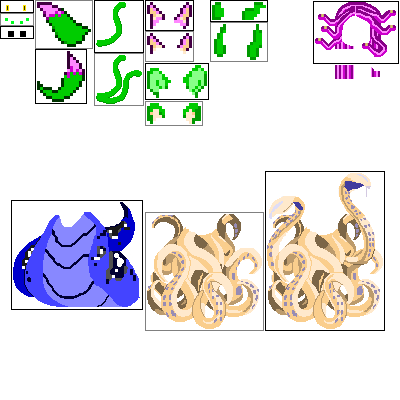
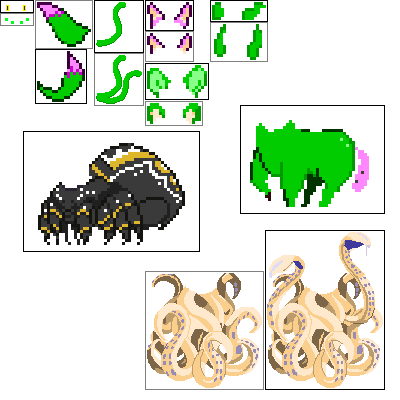
spred: scales & chitin by Liadri

diff --git a/cocspred/spred.js b/cocspred/spred.js
@@ -5,8 +5,25 @@
 ///<reference path="typings/jquery.d.ts"/>
 var spred;
 (function (spred) {
-    const basedir = window['spred_basedir'] || '../../';
-    const canAjax = location.protocol != 'file:';
+    spred.basedir = window['spred_basedir'] || '../../';
+    spred.canAjax = location.protocol != 'file:';
+    spred.g_composites = [];
+    spred.g_selsprite = '';
+    spred.g_sellayer = null;
+    spred.g_layergen = [
+        ['face-human', 'face-human', 'face-fur', 'face-orca', 'face-bee', 'face-chitin', 'face-scales'],
+        ['eyes-human', 'eyes-cat', 'eyes-spider', 'eyes-sandtrap', 'eyes-manticore', 'eyes-orca'],
+        [['hair0f', 'hair0b'], ['hair0f', 'hair0b'], [], ['hair-gorgon', 'hair-gorgon_bg']],
+        ['ears-human', 'ears-fur', ['ears-fox_fg', 'ears-fox_bg'], 'ears-wolf', 'ears-cat', 'ears-orca'],
+        [[], [], [], 'horns2S', 'horns2L', ['horns-orchid_bg', 'horns-orchid_fg']],
+        ['breasts0', 'breastsD', 'breastsDfur', 'breastsDbee', 'breastsDchitin', 'breastsDscales'],
+        ['arms-human', 'arms-fur', 'arms-manticore', ['arms-orca', 'fins-orca'], 'arms-alraune', 'arms-scales', 'arms-bee', 'arms-bee2', 'arms-chitin', 'arms-chitin2'],
+        ['legs-human', 'legs-furpaws', 'legs-naga', 'legs-kraken', 'legs-scylla', 'legs-manticore_sit', 'legs-orca', 'legs-drider', 'legs-centaur', 'legs-chitin', 'legs-bee', 'legs-bee', 'legs-scales', 'legs-alraune', 'legs-liliraune'],
+        ['torso-human', 'torso-human', 'torso-fur', 'torso-orca', 'torso-bee', 'torso-chitin', 'torso-scales'],
+        [[], 'tail-cat', 'tail-cat2', 'tail-fox1', ['tail-fox1', 'tail-fox2'], 'tail-manticore', 'tail-orca', 'tail-bee_abdomen', 'tail-reptile'],
+        [[], [], [], ['wings-mantibig_bg', 'wings-mantibig_fg'], ['wings-bee'], ['wings-scales_left', 'wings-scales_right']],
+        [[], [], [], ['antennae-bee']]
+    ];
     function RGBA(i) {
         let rgb = i.toRgb();
         return (((rgb.a * 0xff) & 0xff) << 24
@@ -64,7 +81,7 @@ var spred;
     })(FileAsker || (FileAsker = {}));
     function loadFile(url, format) {
         return new Promise((resolve, reject) => {
-            if (!canAjax) {
+            if (!spred.canAjax) {
                 FileAsker.askFile(url, file => {
                     if (format == 'img') {
                         url2img(URL.createObjectURL(file)).then(resolve);
@@ -182,7 +199,8 @@ var spred;
             let ctx2d = this.canvas.getContext('2d');
             ctx2d.imageSmoothingEnabled = false;
             let z = this.zoom;
-            ctx2d.clearRect(x * z, y * z, w * z, h * z);
+            let [xz, yz, wz, hz] = [x * z, y * z, w * z, h * z];
+            ctx2d.clearRect(xz, yz, wz, hz);
             let p0 = new Promise((resolve, reject) => {
                 resolve(ctx2d);
             });
@@ -204,8 +222,7 @@ var spred;
                 if (this._layers[layer.name]) {
                     let sprite = this.model.sprites[layer.name];
                     let idata = sprite.ctx2d.getImageData(x, y, w, h);
-                    idata = colormap(idata, cmap);
-                    p0.then(ctx2d => {
+                    p0 = p0.then(ctx2d => {
                         return createImageBitmap(idata).then(bmp => {
                             let sx = x, sy = y;
                             let sw = w;
@@ -234,6 +251,11 @@ var spred;
                     });
                 }
             }
+            p0.then(ctx2d => {
+                let data = colormap(ctx2d.getImageData(xz, yz, wz, hz), cmap);
+                ctx2d.putImageData(data, 0, 0);
+                return ctx2d;
+            });
         }
         hideAll(name) {
             this._layers = {};
@@ -364,7 +386,7 @@ var spred;
             this.colorkeys = [];
             let xmodel = $(src).children('model');
             this.name = xmodel.attr('name');
-            this.dir = basedir + xmodel.attr('dir');
+            this.dir = spred.basedir + xmodel.attr('dir');
             this.width = parseInt(xmodel.attr('width'));
             this.height = parseInt(xmodel.attr('height'));
             this.spritesheets = [];
@@ -459,22 +481,6 @@ var spred;
         }
     }
     spred.Model = Model;
-    spred.g_composites = [];
-    spred.g_selsprite = '';
-    spred.g_sellayer = null;
-    spred.g_layergen = [
-        ['face-human', 'face-human', 'face-fur', 'face-orca'],
-        ['eyes-human', 'eyes-cat', 'eyes-spider', 'eyes-sandtrap', 'eyes-manticore', 'eyes-orca'],
-        [['hair0f', 'hair0b'], ['hair0f', 'hair0b'], [], 'hair-gorgon'],
-        ['ears-human', 'ears-fur', ['ears-fox_fg', 'ears-fox_bg'], 'ears-wolf', 'ears-cat', 'ears-orca'],
-        [[], [], [], 'horns2S', 'horns2L'],
-        ['breasts0', 'breastsD'],
-        ['arms-human', 'arms-fur', 'arms-manticore', ['arms-orca', 'fins-orca']],
-        ['legs-human', 'legs-furpaws', 'legs-naga', 'legs-kraken', 'legs-scylla', 'legs-manticore_sit', 'legs-orca'],
-        ['torso-human', 'torso-human', 'torso-fur', 'torso-orca'],
-        [[], 'tail-cat', 'tail-cat2', 'tail-fox1', ['tail-fox1', 'tail-fox2'], 'tail-manticore', 'tail-orca'],
-        [[], [], [], ['wings-mantibig_bg', 'wings-mantibig_fg']]
-    ];
     function defaultLayerList() {
         return spred.g_layergen.map(randel)
             .map(s => (typeof s == 'string' ? [s] : s))
@@ -790,6 +796,6 @@ var spred;
     }
     spred.saveSpritemaps = saveSpritemaps;
     $(() => {
-        loadFile(basedir + 'res/model.xml', 'xml').then(loadModel);
+        loadFile(spred.basedir + 'res/model.xml', 'xml').then(loadModel);
     });
 })(spred || (spred = {}));
